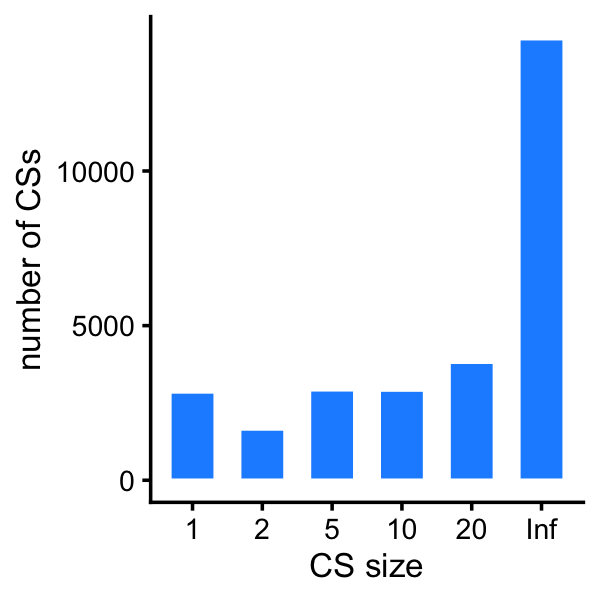
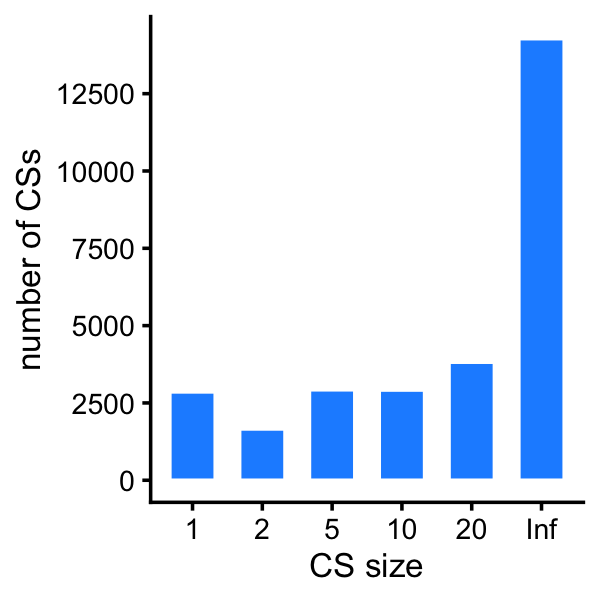
A few small improvements to the histograms in the rosmap_rnaseq_protein analysis.

Changed region(s): [[0.09, 0.12, 0.24, 0.18], [0.12, 0.39, 0.24, 0.45], [0.12, 0.63, 0.24, 0.69]]

diff --git a/docs/rosmap_rnaseq_protein.html b/docs/rosmap_rnaseq_protein.html
@@ -434,15 +434,15 @@ project makes it easier to run your code on other machines.</p>
 <div class="panel panel-default">
 <div class="panel-heading">
 <p class="panel-title">
-<a data-toggle="collapse" data-parent="#workflowr-checks" href="#strongRepositoryversionstrongahrefhttpsgithubcomstephenslabfsusieexperimentstree5a659933e483e9768a57c3acd25b25e08ea6b427targetblank5a65993a">
+<a data-toggle="collapse" data-parent="#workflowr-checks" href="#strongRepositoryversionstrongahrefhttpsgithubcomstephenslabfsusieexperimentstree94a37347550bcc97d8bd79721f9c7c3fc93b0ce8targetblank94a3734a">
 <span class="glyphicon glyphicon-ok text-success"
 aria-hidden="true"></span> <strong>Repository version:</strong>
-<a href="https://github.com/stephenslab/fsusie-experiments/tree/5a659933e483e9768a57c3acd25b25e08ea6b427" target="_blank">5a65993</a>
+<a href="https://github.com/stephenslab/fsusie-experiments/tree/94a37347550bcc97d8bd79721f9c7c3fc93b0ce8" target="_blank">94a3734</a>
 </a>
 </p>
 </div>
 <div
[2 lines of base64/hex data omitted]
 class="panel-collapse collapse">
 <div class="panel-body">
 <p>
@@ -452,7 +452,7 @@ reproducibility.
 </p>
 <p>
 The results in this page were generated with repository version
-<a href="https://github.com/stephenslab/fsusie-experiments/tree/5a659933e483e9768a57c3acd25b25e08ea6b427" target="_blank">5a65993</a>.
+<a href="https://github.com/stephenslab/fsusie-experiments/tree/94a37347550bcc97d8bd79721f9c7c3fc93b0ce8" target="_blank">94a3734</a>.
 See the <em>Past versions</em> tab to see a history of the changes made
 to the R Markdown and HTML files.
 </p>
@@ -467,7 +467,7 @@ were generated:
 </p>
 <pre><code>
 Untracked files:
-    Untracked:  .DS_Store
+    Untracked:  analysis/cs_sizes_protein.pdf
     Untracked:  analysis/cs_sizes_rnaseq.pdf
     Untracked:  analysis/rosmap_overview_cache/
     Untracked:  data/12864_2013_7006_MOESM2_ESM.csv.gz
@@ -541,6 +541,40 @@ Message
 </tr>
 </thead>
 <tbody>
+<tr>
+<td>
+Rmd
+</td>
+<td>
+<a href="https://github.com/stephenslab/fsusie-experiments/blob/94a37347550bcc97d8bd79721f9c7c3fc93b0ce8/analysis/rosmap_rnaseq_protein.Rmd" target="_blank">94a3734</a>
+</td>
+<td>
+Peter Carbonetto
+</td>
+<td>
+2025-05-01
+</td>
+<td>
+workflowr::wflow_publish("rosmap_rnaseq_protein.Rmd")
+</td>
+</tr>
+<tr>
+<td>
+html
+</td>
+<td>
+<a href="https://rawcdn.githack.com/stephenslab/fsusie-experiments/ad758942c5a73c0de239881235df3b4600db40b6/docs/rosmap_rnaseq_protein.html" target="_blank">ad75894</a>
+</td>
+<td>
+Peter Carbonetto
+</td>
+<td>
+2025-05-01
+</td>
+<td>
+Added histograms to the rosmap_rnaseq_protein analysis.
+</td>
+</tr>
 <tr>
 <td>
 Rmd
@@ -667,6 +701,7 @@ levels(cs_size) &lt;- bins[-1]
 p &lt;- ggplot(data.frame(cs_size = cs_size),aes(x = cs_size)) +
   geom_histogram(stat = &quot;count&quot;,color = &quot;white&quot;,fill = &quot;dodgerblue&quot;,
                  width = 0.65) +
+  scale_y_continuous(breaks = seq(0,20000,2500)) +
   labs(x = &quot;CS size&quot;,y = &quot;number of CSs&quot;) +
   theme_cowplot(font_size = 10)
 print(p)</code></pre>
@@ -695,6 +730,17 @@ Date
 <tbody>
 <tr>
 <td>
+<a href="https://github.com/stephenslab/fsusie-experiments/blob/ad758942c5a73c0de239881235df3b4600db40b6/docs/figure/rosmap_rnaseq_protein.Rmd/cs-sizes-rnaseq-1.png" target="_blank">ad75894</a>
+</td>
+<td>
+Peter Carbonetto
+</td>
+<td>
+2025-05-01
+</td>
+</tr>
+<tr>
+<td>
 <a href="https://github.com/stephenslab/fsusie-experiments/blob/c8753a181abfdb324ba075dae14007e9af8bdf19/docs/figure/rosmap_rnaseq_protein.Rmd/cs-sizes-rnaseq-1.png" target="_blank">c8753a1</a>
 </td>
 <td>
@@ -708,6 +754,11 @@ Peter Carbonetto
 </table>
 </div>
 </div>
+<p>Here are the exact numbers:</p>
+<pre class="r"><code>table(cs_size)
+# cs_size
+#     1     2     5    10    20   Inf 
+#  2857  1659  2925  2917  3817 14278</code></pre>
 <p>Load the protein fine-mapping results:</p>
 <pre class="r"><code>protein &lt;- fread(&quot;../outputs/ROSMAP_DLPFC_pQTL.cs_only.tsv.gz&quot;,
                 sep = &quot;\t&quot;,header = TRUE,stringsAsFactors = FALSE)
@@ -736,6 +787,48 @@ p &lt;- ggplot(data.frame(cs_size = cs_size),aes(x = cs_size)) +
   theme_cowplot(font_size = 10)
 print(p)</code></pre>
 <p><img src="figure/rosmap_rnaseq_protein.Rmd/cs-sizes-protein-1.png" width="300" style="display: block; margin: auto;" /></p>
+<p>
+<button type="button" class="btn btn-default btn-xs btn-workflowr btn-workflowr-fig" data-toggle="collapse" data-target="#fig-cs-sizes-protein-1">
+Past versions of cs-sizes-protein-1.png
+</button>
+</p>
+<div id="fig-cs-sizes-protein-1" class="collapse">
+<div class="table-responsive">
+<table class="table table-condensed table-hover">
+<thead>
+<tr>
+<th>
+Version
+</th>
+<th>
+Author
+</th>
+<th>
+Date
+</th>
+</tr>
+</thead>
+<tbody>
+<tr>
+<td>
+<a href="https://github.com/stephenslab/fsusie-experiments/blob/ad758942c5a73c0de239881235df3b4600db40b6/docs/figure/rosmap_rnaseq_protein.Rmd/cs-sizes-protein-1.png" target="_blank">ad75894</a>
+</td>
+<td>
+Peter Carbonetto
+</td>
+<td>
+2025-05-01
+</td>
+</tr>
+</tbody>
+</table>
+</div>
+</div>
+<p>Here are the exact numbers:</p>
+<pre class="r"><code>table(cs_size)
+# cs_size
+#    1    2    5   10   20  Inf 
+# 1797  670  835  634  594 1332</code></pre>
 <br>
 <p>
 <button type="button" class="btn btn-default btn-workflowr btn-workflowr-sessioninfo" data-toggle="collapse" data-target="#workflowr-sessioninfo" style="display: block;">
@@ -779,7 +872,7 @@ Session information
 # [41] bslib_0.6.1       later_1.3.2       gtable_0.3.4      glue_1.8.0       
 # [45] Rcpp_1.0.12       systemfonts_1.0.6 xfun_0.42         tibble_3.2.1     
 # [49] tidyselect_1.2.1  highr_0.10        knitr_1.45        farver_2.1.1     
-# [53] htmltools_0.5.8.1 rmarkdown_2.26    labeling_0.4.3    compiler_4.3.3</code></pre>
+# [53] htmltools_0.5.8.1 labeling_0.4.3    rmarkdown_2.26    compiler_4.3.3</code></pre>
 </div>
 
 
